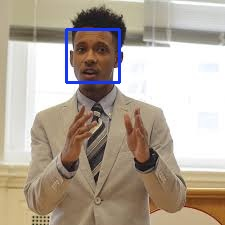
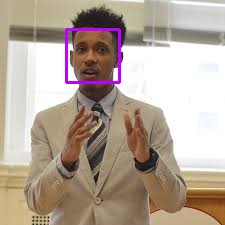
bar chart changed to line chart

Changed region(s): [[0.28, 0.0933, 0.56, 0.4044]]

diff --git a/static/main.js b/static/main.js
@@ -6,7 +6,7 @@ $(document).ready(function () {
 
     // Upload Preview
     function readURL(input) {
-        if (input.files && input.files[0]) {
+        if (input.files && input.files[0]) { //???
             var reader = new FileReader();
             reader.onload = function (e) {
                 $('box').html('    <div class="image-section" style="display:none;"><div class="img-preview holder"><div id="imagePreview"></div></div><div><div  id="imgPre"></div>     <button type="button" class="btn btn-primary btn-lg " id="btn-predict">Predict!</button>  </div>    </div>')
@@ -32,7 +32,9 @@ var arrayMaxIndex = function(array) {
     $('')
     // Predict
     $('#btn-predict').click(function () {
-        var form_data = new FormData($('#upload-file')[0]);
+        var form_data = new FormData($('#upload-file')[0]);  //???
+         console.log("this is form data")
+         console.log(form_data)   //??????
 
         // Show loading animation
         $(this).hide();
@@ -54,7 +56,7 @@ var arrayMaxIndex = function(array) {
 
 
 
-                data = data.split("]").join("");
+                data = data.split("]").join(""); //??
                 data = data.split("[").join("");
                 data = data.split("'").join("");
                 data = data.split("  ").join(" ");
@@ -74,7 +76,7 @@ var arrayMaxIndex = function(array) {
       listOfPerson = []
                 sadasd = []
                 for (i = 0; i < n ; i++) {
-                  splited = data[i].trim().split(" ")
+                  splited = data[i].trim().split(" ")  //???
 //                  splited.shift()                splited.pop()
 
                     map1 = splited.map(x => Number(x * 100))
@@ -104,7 +106,7 @@ var arrayMaxIndex = function(array) {
                       state = "Neutral"
                         break;
                     }
-                    retStr = retStr.concat("the person Number ", i, " is ", state , " ")
+                   retStr = retStr.concat("Person Number ", i+1, " is ", state , "<br/> ")
 
                 }
 
@@ -120,70 +122,107 @@ console.log(listOfPerson)
                       case 1:
                         infoList =  [
                             {
-                            label: 'Pesron 1',
+                            label: 'Person 1',
                             data: [{x: 1, y: listOfPerson[0][0]}, {x: 2, y: listOfPerson[0][1]}, {x: 3, y: listOfPerson[0][2]},{x: 4, y: listOfPerson[0][3]},{x: 4, y: listOfPerson[0][4]}],
                             showLine: true,
                             fill: false,
-                            borderColor: 'rgba(0, 200, 0, 1)'
+                            borderColor: '	rgb(128,0,128)',
+                            backgroundColor:'	rgb(128,0,128)'
                             }
                         ]
                         break;
                       case 2:
                     infoList =  [
                             {
-                            label: 'Pesron 1',
+                            label: 'Person  1',
                             data: [{x: 1, y: listOfPerson[0][0]}, {x: 2, y: listOfPerson[0][1]}, {x: 3, y: listOfPerson[0][2]},{x: 4, y: listOfPerson[0][3]},{x: 4, y: listOfPerson[0][4]}],
                             showLine: true,
                             fill: false,
-                            borderColor: 'rgba(134, 100, 0, 1)'
+                            borderColor: '	rgb(128,0,128)',
+                            backgroundColor:'rgb(128,0,128)'
                             },
                             {
                             label: 'Person 2',
                             data: [{x: 1, y: listOfPerson[1][0]}, {x: 2, y: listOfPerson[1][1]}, {x: 3, y: listOfPerson[1][2]},{x: 4, y: listOfPerson[1][3]},{x: 4, y: listOfPerson[1][4]}],
                             showLine: true,
                             fill: false,
-                            borderColor: 'rgba(0, 200, 0, 1)'
+                            borderColor:'rgb(204, 0, 0)',
+                            backgroundColor:'rgb(204, 0, 0)'
                             }
                         ]
                         break;
                       case 3:
                             infoList =  [
                             {
-                            label: 'Pesron 1',
+                            label: 'Person  1',
                             data: [{x: 1, y: listOfPerson[0][0]}, {x: 2, y: listOfPerson[0][1]}, {x: 3, y: listOfPerson[0][2]},{x: 4, y: listOfPerson[0][3]},{x: 4, y: listOfPerson[0][4]}],
                             showLine: true,
                             fill: false,
-                            borderColor: 'rgba(134, 100, 0, 1)'
+                            borderColor: 'rgb(128,0,128)',
+                            backgroundColor:'rgb(128,0,128)'
                             },
                             {
                             label: 'Person 2',
                             data: [{x: 1, y: listOfPerson[1][0]}, {x: 2, y: listOfPerson[1][1]}, {x: 3, y: listOfPerson[1][2]},{x: 4, y: listOfPerson[1][3]},{x: 4, y: listOfPerson[1][4]}],
                             showLine: true,
                             fill: false,
-                            borderColor: 'rgba(0, 200, 0, 1)'
+                            borderColor:'rgb(204, 0, 0)',
+                            backgroundColor:'rgb(204, 0, 0)'
                             },
                             {
                             label: 'Person 3',
                             data: [{x: 1, y: listOfPerson[2][0]}, {x: 2, y: listOfPerson[2][1]}, {x: 3, y: listOfPerson[2][2]},{x: 4, y: listOfPerson[2][3]},{x: 4, y: listOfPerson[2][4]}],
                             showLine: true,
                             fill: false,
-                            borderColor: 'rgba(87, 32, 76, 1)'
+                            borderColor: 'rgb(0, 255, 0)',
+                            backgroundColor: 'rgb(0, 255, 0)'
                             }
                         ]
                         break;
-                      case 3:
-                        state = "Happy"
+                      case 4:
+                         infoList =  [
+                            {
+                            label: 'Person  1',
+                            data: [{x: 1, y: listOfPerson[0][0]}, {x: 2, y: listOfPerson[0][1]}, {x: 3, y: listOfPerson[0][2]},{x: 4, y: listOfPerson[0][3]},{x: 4, y: listOfPerson[0][4]}],
+                            showLine: true,
+                            fill: false,
+                            borderColor: 'rgb(128,0,128)',
+                            backgroundColor:'	rgb(128,0,128)'
+                            },
+                            {
+                            label: 'Person 2',
+                            data: [{x: 1, y: listOfPerson[1][0]}, {x: 2, y: listOfPerson[1][1]}, {x: 3, y: listOfPerson[1][2]},{x: 4, y: listOfPerson[1][3]},{x: 4, y: listOfPerson[1][4]}],
+                            showLine: true,
+                            fill: false,
+                            borderColor:'rgb(204, 0, 0)',
+                            backgroundColor:'rgb(204, 0, 0)'
+                            },
+                            {
+                            label: 'Person 3',
+                            data: [{x: 1, y: listOfPerson[2][0]}, {x: 2, y: listOfPerson[2][1]}, {x: 3, y: listOfPerson[2][2]},{x: 4, y: listOfPerson[2][3]},{x: 4, y: listOfPerson[2][4]}],
+                            showLine: true,
+                            fill: false,
+                            borderColor: 'rgb(0, 255, 0)',
+                            backgroundColor: 'rgb(0, 255, 0)'
+                            },
+                            {
+                            label: 'Person 4',
+                            data: [{x: 1, y: listOfPerson[3][0]}, {x: 2, y: listOfPerson[3][1]}, {x: 3, y: listOfPerson[3][2]},{x: 4, y: listOfPerson[3][3]},{x: 4, y: listOfPerson[3][4]}],
+                            showLine: true,
+                            fill: false,
+                            borderColor: 'rgb(0, 0, 204)',
+                            backgroundColor:'rgb(0, 0, 204)'
+                            }
+                        ]
                         break;
-                      default:
-                      state = "Neutral"
-                        break;
+
                     }
 
 
 
 
 
-                    console.log(retStr)
+                   console.log(retStr)
 
           // Get and display the result
                 $('.loader').hide();
@@ -191,7 +230,7 @@ console.log(listOfPerson)
 
                 $('#imagePreview').fadeOut(650);
 
-                $('#result0').html(retStr)
+                  $('#result0').html(retStr)
 //                $('#result1').html(" Disgust/fear/surprise" + data[1])
 //                $('#result2').html(" Sad" + data[2])
 //                $('#result3').html("Happy" + data[3])
@@ -204,7 +243,7 @@ console.log(listOfPerson)
 //                $('#result5').html(state)
 
    var ctx = document.getElementById('myChart').getContext('2d');
-   var chart = new Chart(ctx, {  type: 'scatter',
+   var chart = new Chart(ctx, {  type: 'bar',
 
 
     // The data for our dataset

diff --git a/static/main.css b/static/main.css
@@ -1,9 +1,14 @@
 .img-preview {
-    width: 256px;
-    height: 256px;
+width: 346px;
+    height: 275px;
     position: relative;
+    background-size: contain;
+
 
 }
+
+
+
 .imHidden{
     display: none !important
     }
@@ -12,12 +17,13 @@ width: 100%;
 
 height: 100%;
 
-background-size: auto;
+background-size: contain;
 
 background-repeat: no-repeat;
 
 background-position: left;
 }
+
 
 input[type="file"] {
     display: none;

diff --git a/main_server.py b/main_server.py
@@ -108,7 +108,7 @@ def load_models():
 class User(UserMixin,db.Model):
     __tablename__ = 'users'
     id = db.Column(db.Integer, primary_key=True)
-    username = db.Column(db.String(32),unique=True,index=True)
+    username = db.Column(db.String(32), unique=True,index=True)
     password = db.Column(db.String(80))
 31
 
@@ -154,6 +154,11 @@ def login():
 @app.route('/api/signup', methods=['GET', 'POST'])
 def signup():
     form = RegisterForm()
+    if form.validate_on_submit():
+        user = User.query.filter_by(username=form.username.data).first()
+        if user:
+            return '<h1>user already exists</h1>'
+
 
     if form.validate_on_submit():
         hashed_password = generate_password_hash(form.password.data, method='sha256')
@@ -163,6 +168,7 @@ def signup():
 
         return '<h1>New user has been created!</h1>'
         #return '<h1>' + form.username.data + ' ' + form.email.data + ' ' + form.password.data + '</h1>'
+
 
     return render_template('signup.html', form=form)
 
@@ -304,22 +310,18 @@ def upload():
     if request.method == 'POST':
         # Get the file from post request
         f = request.files['image']
-
         # Save the file to ./uploads
         basepath = os.path.dirname(__file__)
         file_path = os.path.join(
             basepath, 'uploads', secure_filename(f.filename))
         f.save(file_path)
-
         img = cv2.imread(file_path)
         # cv2.imshow('tt', img)
         # cv2.waitKey(2000)
         img = cv2.cvtColor(img, cv2.COLOR_RGB2GRAY)
-
         # Make prediction
         #preds = model_affective.predict_all_faces_emotion(file_path,model_affective)
         preds = model_affective.predict_all_faces_emotion(img)
-
         # Process your result for human
         # pred_class = preds.argmax(axis=-1)            # Simple argmax
         pred_class = decode_predictions(preds, top=1)   # ImageNet Decode
@@ -337,7 +339,7 @@ def upload():
         # Get the file from post request
         f = request.files['image']
 
-        # Save the file to ./uploads
+        # Save the file to ./static/images
         basepath = os.path.dirname(__file__)
         file_path = os.path.join(basepath, 'static/images', secure_filename(f.filename))
         f.save(file_path)
@@ -350,10 +352,19 @@ def upload():
         preds, faces, all_types = model_affective.predict_all_faces_emotion(img)
         # print(all_types)
         img = cv2.imread(file_path)
-
+        t =0
         for (x,y,w,h) in faces:
             #fc = img[y:y + h, x:x + w]
-            cv2.rectangle(img,(x,y),(x+w,y+h),(int(random.random() * 256), int(random.random() * 256),int(random.random() * 256)), 2)
+            t +=1
+            if t ==1:
+                s =(128,0,128)
+            if t==2:
+                s =(0, 0, 255)
+            if t==3:
+                s =(0, 255, 0)
+            if t==4:
+                s=( 255,69,0)
+            cv2.rectangle(img,(x,y),(x+w,y+h),s, 2)
 
         cv2.imwrite(file_path , img)
 
@@ -395,4 +406,3 @@ if __name__ == "__main__":
 
 
 	app.run(debug =True)    ###az koja shoro mikone be run harkodomom seda function ie ro seda konim run mikone?
-
